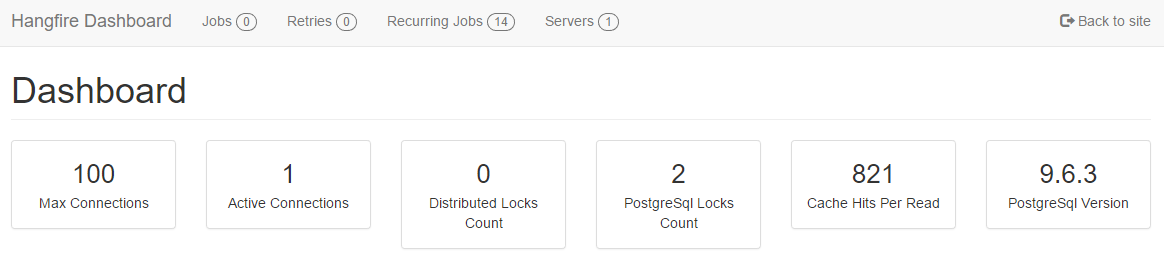
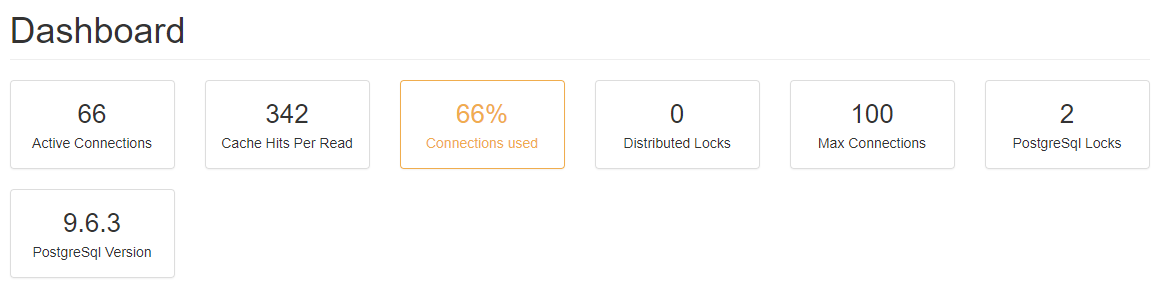
Updated readme

diff --git a/README.md b/README.md
@@ -1,38 +1,41 @@
 
-Hangfire.PostgreSql
-===================
+# Hangfire.PostgreSql
 [![Build status](https://ci.appveyor.com/api/projects/status/n05446uxa1f5sjw3?svg=true)](https://ci.appveyor.com/project/ahydrax/hangfire-postgresql)
 [![Code quality](https://sonarcloud.io/api/project_badges/measure?project=Hangfire.PostgreSql.ahydrax&metric=alert_status)](https://sonarcloud.io/dashboard?id=Hangfire.PostgreSql.ahydrax)
 [![NuGet](https://img.shields.io/nuget/v/Hangfire.PostgreSql.ahydrax.svg)](https://www.nuget.org/packages/Hangfire.PostgreSql.ahydrax/)
 [![GitHub license](https://img.shields.io/badge/license-LGPL-blue.svg?style=flat)](https://raw.githubusercontent.com/ahydrax/Hangfire.PostgreSql/master/COPYING)
 
-This is a plugin for Hangfire to enable PostgreSQL as a storage system.
+This is a plugin for Hangfire to enable PostgreSql as a storage system.
 Read about hangfire here: https://github.com/HangfireIO/Hangfire#hangfire-
 and here: http://hangfire.io/
 
-Requirements
-------------
-* .NET Framework: `.>=NET 4.5.2` or `>=.NET Standard 1.6`
-* PostgreSql: `>=9.6`
+## Requirements
+* `>= .NET 4.5.2` or `>= .NET Standard 1.6`
+* `>= PostgreSql 9.6`
 
-Instructions
-------------
+## Usage
 Install Hangfire, see https://github.com/HangfireIO/Hangfire#installation
 
 Download source files and build your own binaries or just use nuget package.
 
 ```csharp
 app.UseHangfireServer(new BackgroundJobServerOptions(), 
-  new PostgreSqlStorage("<connection string>"));
+  new PostgreSqlStorage(connectionString));
 app.UseHangfireDashboard();
 ```
+`connectionString` **must be** supplied with `Search Path = <schema name>` parameter.
 
-Additional metrics for Hangfire.Dashboard
------------------
-There are 6 different metrics you can use:
-
+## Additional metrics for Hangfire.Dashboard
 ![dashboard](content/dashboard.png)
+Metrics can be added in two different ways:
 
+If you want to use recommended settings then do:
+
+```csharp
+GlobalConfiguration.Configuration.UsePostgreSqlMetrics();
+```
+
+Or setup manually according to your needings:
 ```csharp
 GlobalConfiguration.Configuration.UseDashboardMetric(PostgreSqlDashboardMetrics.MaxConnections);
 GlobalConfiguration.Configuration.UseDashboardMetric(PostgreSqlDashboardMetrics.ActiveConnections);
@@ -40,28 +43,17 @@ GlobalConfiguration.Configuration.UseDashboardMetric(PostgreSqlDashboardMetrics.
 GlobalConfiguration.Configuration.UseDashboardMetric(PostgreSqlDashboardMetrics.PostgreSqlLocksCount);
 GlobalConfiguration.Configuration.UseDashboardMetric(PostgreSqlDashboardMetrics.CacheHitsPerRead);
 GlobalConfiguration.Configuration.UseDashboardMetric(PostgreSqlDashboardMetrics.PostgreSqlServerVersion);
+GlobalConfiguration.Configuration.UseDashboardMetric(PostgreSqlDashboardMetrics.ConnectionUsageRatio);
 ```
 
-Backward compatibility with original project
------------------
-* Minimum required PostgreSQL version is 9.6
-* `PostgreSqlStorageOptions.SchemaName` is removed. Consider using `SearchPath` in your connection string.
-* Connection string must be passed directly to constructor or bootstrapper method (it is no longer available to pass connection string name stored in ```app.config```);
-* Constructor with existing `NpgsqlConnection` is no longer available;
-* Removed parameter UseNativeDatabaseTransactions (transactions are used where needed and it can't be turned off);
-* Anything else I've already forgotten.
-
-
-Related links
------------------
+## Related links
 
 * [Hangfire.Core](https://github.com/HangfireIO/Hangfire)
 * [Hangfire.Postgres original project](https://github.com/frankhommers/Hangfire.PostgreSql)
 
-License
-========
+## License
 
-Copyright © 2014-2017 Frank Hommers, Burhan Irmikci (barhun), Zachary Sims(zsims), kgamecarter, Stafford Williams (staff0rd), briangweber, Viktor Svyatokha (ahydrax), Christopher Dresel (Dresel), Vytautas Kasparavičius (vytautask).
+Copyright © 2014-2018 Frank Hommers, Burhan Irmikci (barhun), Zachary Sims(zsims), kgamecarter, Stafford Williams (staff0rd), briangweber, Viktor Svyatokha (ahydrax), Christopher Dresel (Dresel), Vytautas Kasparavičius (vytautask).
 
 Hangfire.PostgreSql is an Open Source project licensed under the terms of the LGPLv3 license. Please see http://www.gnu.org/licenses/lgpl-3.0.html for license text or COPYING.LESSER file distributed with the source code.
 
